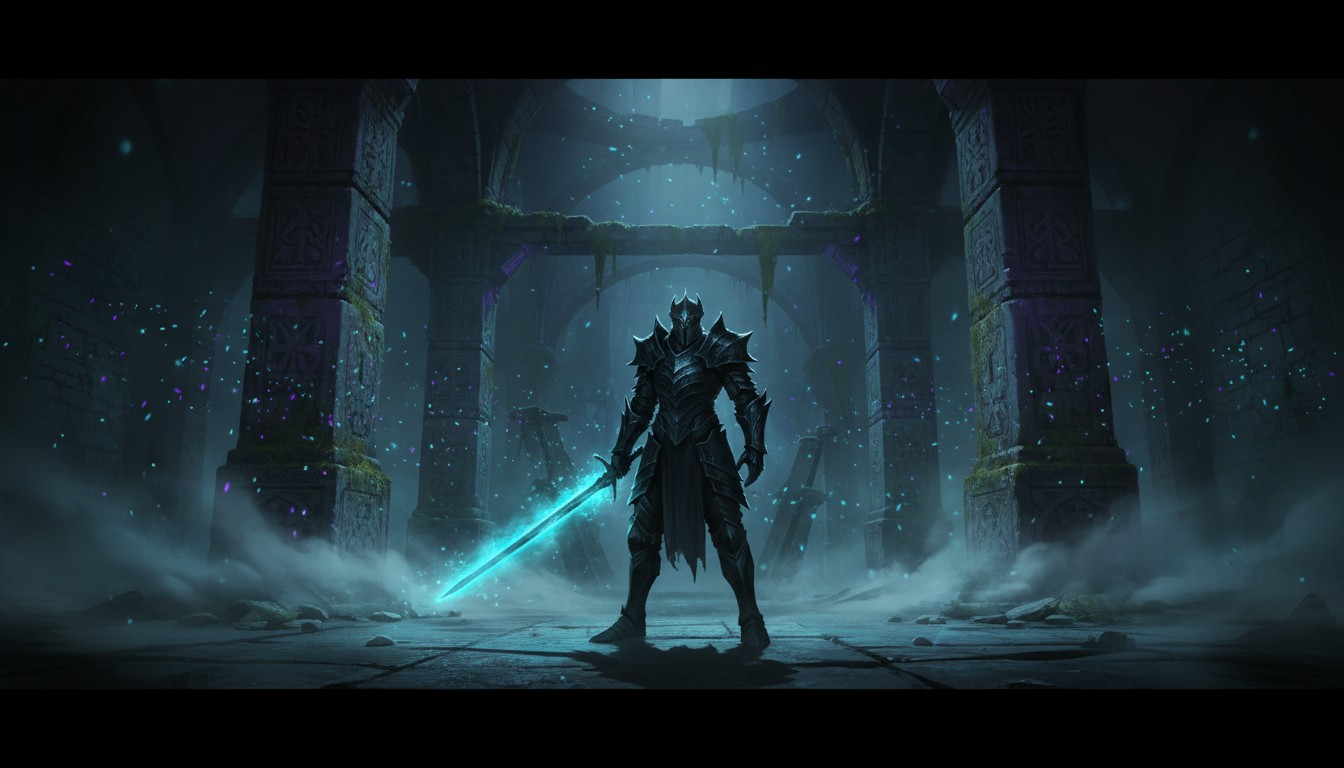
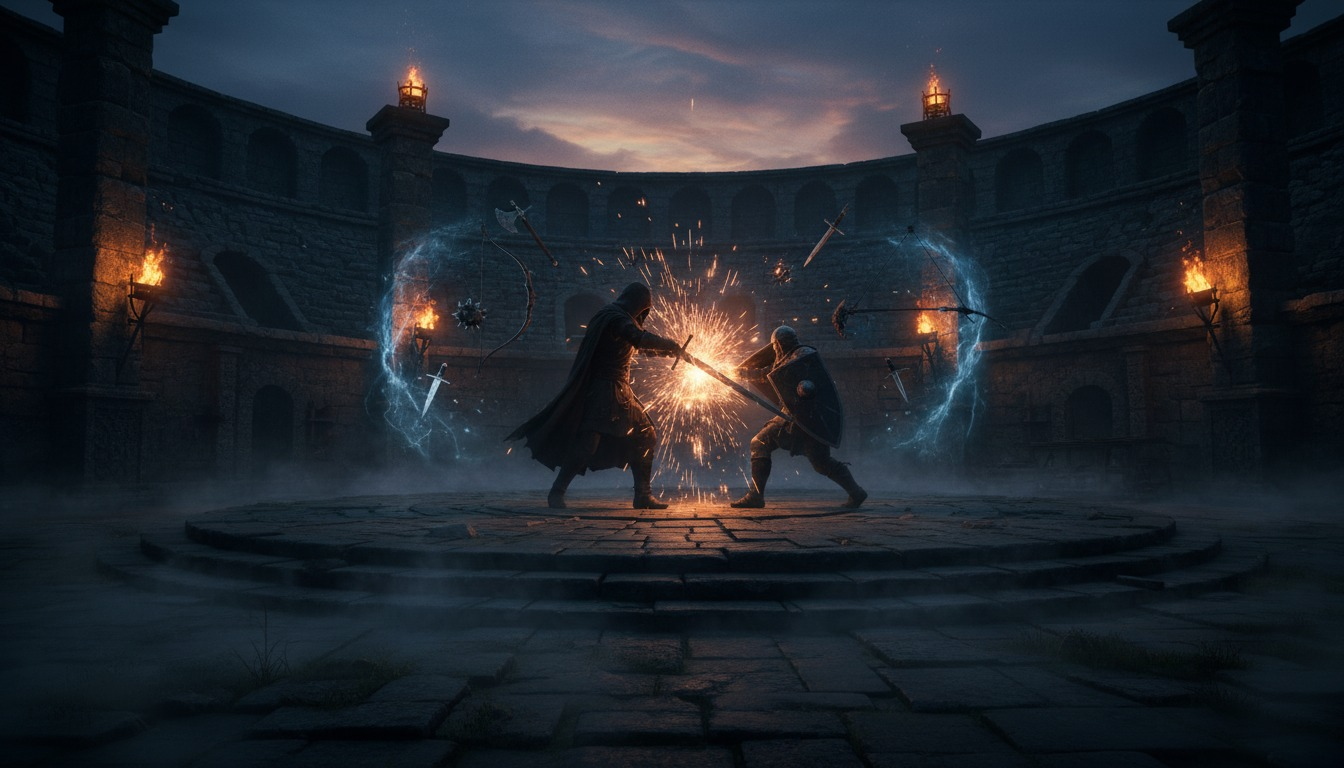
Publish blade-and-sorcery (games)

diff --git a/src/content/games/blade-and-sorcery.md b/src/content/games/blade-and-sorcery.md
@@ -1,74 +1,64 @@
 ---
 title: "Blade & Sorcery VR"
-description: "The physics-driven medieval combat sandbox that still sets the standard for VR melee — and the compromises you should know about before stepping into the arena."
-lastVerified: 2024-06-17
+description: "A physics-driven medieval combat sandbox where weapons have real weight and magic obeys your hands — though its Early Access scope is narrow."
+lastVerified: 2018-12-11
 featured: false
 routeType: Official Standalone VR Version
-platforms: ['PCVR', 'Quest', 'Pico']
-recommendation: Recommended
-playability: Fully Playable
+vrReleaseDate: 2018-12-11
+platforms: ['PCVR']
+recommendation: Recommended with Caveats
+playability: Mostly Playable
 setupBurden: Beginner Friendly
 inputStyle: Full Motion Controls
-comfort: Moderate Intensity
+comfort: Intense
 performance: Moderate Demand
 supportStatus: Active
 genres:
   - Action
+  - Simulation
   - Sandbox
-  - RPG
 technicalTags:
-  - Physics-Based Combat
-  - Native VR
-  - Mod Support
-  - Procedural Dungeons
-experienceTags:
+  - Physics-Based
   - Melee Combat
-  - Magic Systems
-  - Sandbox Freedom
-  - Progression Mode
-tier: A
-verdict: "The best VR melee combat available, backed by a deep sandbox and massive modding community. Play it on PCVR if you can; Nomad is impressive but visibly constrained."
+  - Magic System
+  - Moddable
+experienceTags:
+  - Medieval
+  - Arena Combat
+  - Sandbox
+  - Combat-Focused
+tier: B
+verdict: "The best VR melee combat available, trapped in a very small box. Worth it for the physics alone if you know what you're buying."
 heroImage: /images/games/blade-and-sorcery-vr-hero.jpg
-sources: "Research conducted via Steam store page, Meta Quest store page, UploadVR reviews and coverage, pressplaynews.net PCVR review, Road to VR development coverage, WarpFrog official announcements, YouTube VR gameplay footage (Beardo Benjo, Gamertag VR), and Reddit community reports from r/BladeAndSorcery. Assessment based on community experience and media coverage; no direct testing performed."
-vrReleaseDate: 2018-12-11
+sources: "Steam store page (WarpFrog), YouTube VR gameplay footage (Nathie, Gamertag VR, Beardo Benjo), Reddit community reports (r/BladeAndSorcery, r/Vive, r/oculus), Flat2VR Discord community knowledge. Assessment based on research compilation; no direct testing performed."
 ---
 
-The first time I landed a clean two-handed overhead swing in *Blade & Sorcery*, I felt the virtual weight of the blade pull my arms down. Not because of haptics — though the controller rumble helps — but because the game's physics engine actually models momentum, edge alignment, and impact force. The sword bit through the enemy's shoulder, the body crumpled with ragdoll physics that didn't look canned, and I stood there in my headset thinking: *okay, so this is what VR combat is supposed to feel like.*
+You swing a longsword at a raider's head and something unexpected happens: the blade catches on his shield, slides along the rim, and bites into his shoulder with the awkward, messy physics of real metal hitting real bone. In most VR games, that collision would have ghosted right through. In *Blade & Sorcery*, it stops. It bounces. It behaves like an object with mass, and that single difference rewrites what melee combat feels like in a headset.
 
-That was years ago, in Early Access. The game left Early Access in June 2024 with a full 1.0 release and a new progression mode called Crystal Hunt, and the core appeal hasn't changed. *Blade & Sorcery* is a medieval fantasy combat sandbox built from the ground up for VR. There is no flat version. There never will be. Every swing, every spell, every thrown dagger was designed around the fact that you're standing in a room with two motion controllers and a headset strapped to your face.
+WarpFrog's *Blade & Sorcery* arrived on Steam Early Access as a PCVR-native medieval combat sandbox, and its selling proposition is brutally simple: weapons have weight, edges cut where edges should cut, and the entire design flows from that foundation. There is no campaign here, no skill tree, no narrative justification for why you are standing in a stone courtyard surrounded by people who want you dead. You are here because the combat is the game, and for once, the combat justifies the admission price.
 
-## What You're Actually Getting
+## What the Combat Actually Feels Like
 
-At its heart, this is a physics playground with a combat bent. The sandbox mode drops you into an arena or dungeon with immediate access to every weapon, armor piece, and spell in the game. You spawn enemies, set the parameters, and fight until you're bored or dead. There's no scoreboard pushing you forward — the game trusts that the combat itself is the reward.
+What makes the moment-to-moment play compelling is the collision system. Swords, axes, daggers, and polearms all carry momentum that your arm must generate. Waggle a blade limply and it taps harmlessly against armor. Put your body behind a swing and it cleaves through flesh. Stab someone in the leg and they stumble. Crush a skull with a mace and the impact feels thuddy and correct, not pre-canned. The absence of pre-baked attack animations means every fight is a mess of improvised geometry: you might hook an enemy's helmet with a halberd, lose your grip when they yank the shaft, or accidentally lodge a thrown knife in a wooden beam two feet left of your target.
 
-Crystal Hunt, added at 1.0, gives structure to that sandbox. It's a proper progression mode with a skill tree, dungeon crawling, loot, and lore delivered through scattered notes and voiceovers. The narrative is thin — don't expect *Skyrim* — but the loop works. You descend into procedural dungeons, fight through rooms of enemies, gather gear, and spend skill points on abilities like telekinesis or fire conjuration. It gives new players a reason to learn the systems before diving into unrestricted sandbox chaos.
+This is the first commercial VR melee system that treats your weapons as physical objects rather than wands with hitboxes. It demands you respect length, angle, and follow-through. You cannot simply flail your controller and win. A spear kept at range is devastating; brought in close, it becomes a liability. A dagger requires you to get inside an enemy's guard. A greatsword needs space to build momentum. The game does not explain this in a tutorial — it teaches through the physics itself, and the learning curve is part of the satisfaction.
 
-The combat itself is the star. Weapons have heft. A claymore swings slower than a dagger and carries more knockback. Shields can be bashed. Arrows arc and drop. Magic comes in several disciplines — gravity, fire, lightning, life drain — and can be combined with melee in ways that feel improvisational rather than scripted. Grab an enemy with telekinesis, pull them into a sword thrust, then blast the corpse into their allies with a gravity push. The game doesn't award style points, but it gives you the tools to look cool anyway.
+The magic system layers on top of this physicality with surprising coherence. Telekinesis lets you pluck weapons from the ground or choke an opponent from across the room. Lightning chains between clustered enemies. Fire ignites cloth and spreads realistically. Each spell is gesture-activated and governed by the same physics logic as everything else, which means a telekinetically lifted crate has real inertia, and a lightning bolt can strike your own sword if you are careless. It feels less like casting from a hotbar and more like manipulating a dangerous toolset that happens to respond to hand movements.
 
-## PCVR vs. Nomad: The Real Divide
+## The Walls of the Sandbox
 
-If you have a gaming PC and a Quest or PCVR headset, buy the PCVR version. Full stop. The standalone *Blade & Sorcery: Nomad* port for Quest and Pico is genuinely impressive — it's one of the better PCVR-to-standalone conversions out there — but the compromises are real and they stack up.
+The structure, however, is where the Early Access label bites hardest. *Blade & Sorcery* offers a handful of arena maps and two primary modes: wave-based survival and a free-for-all sandbox where you spawn enemies at will. That is the full menu. There are no objectives, no persistent progression, no unlocks, no story beats to chase. You fight until you die, restart, and fight again. For some players, this is a feature — a pure, distilled combat loop with no filler. For others, it is a narrow package that runs out of new experiences within a few hours.
 
-On PCVR, you get the Citadel map, larger dungeons, more enemies on screen at once, better physics stability, and the full modding ecosystem. On Nomad, the Citadel is missing entirely. Dungeons are trimmed down. Enemy counts are lower to preserve performance. Distant geometry looks pixelated and blurry, especially on Quest 2. Physics can jitter under load — hands clip through objects, swords phase through enemies in ways that break the illusion. Nomad also had a rocky road with scripted mods; the capability exists now in a beta form, but many complex PCVR mods simply won't run on standalone hardware.
+Enemy variety is thin at launch, and while the AI is aggressive enough to keep you honest, it does not exhibit much tactical depth. They rush, they swing, they die. The sandbox tools help extend the lifespan — you can spawn ten enemies, give yourself only daggers, or turn off gravity and see what chaos unfolds — but the playground itself is small. The modding community is already picking up considerable slack, building new weapons, maps, and gameplay tweaks at a brisk pace. Still, buying a game on the promise of future community content is a gamble Early Access asks you to make explicitly, and the base offering is lean.
 
-That said, Nomad has one undeniable advantage: you can play it anywhere. No cable, no PC, no guardian boundary headaches from a link connection. For a game that's as physically active as this one — ducking, lunging, wide swings — standalone freedom matters. If you only own a Quest and no gaming PC, Nomad is absolutely worth the purchase. Just know you're getting the compressed version of an already niche experience.
+## Stability, Performance, and Comfort
 
-## Where the Magic Lives (and Dies)
+Performance and stability carry the usual Early Access caveats. On reasonable hardware the game maintains its framerate well enough for a smooth VR experience, though dense enemy clusters and heavy physics calculations can introduce hitches. Physics glitches occasionally launch bodies into orbit or cause weapons to vibrate themselves loose from your grip. None of it is frequent enough to ruin a session, but all of it reminds you that this is a work in progress.
 
-The modding scene is what keeps *Blade & Sorcery* alive long after the base content runs dry. The in-game mod manager and Nexus Mods host thousands of mods: new weapons, new maps, new enemies, total conversion packs that drop you into *Star Wars* or *Lord of the Rings* scenarios. The SDK is flexible enough that creators have built functioning multiplayer mods, expanded spell systems, and dynamic weapon degradation. If the base game is a sandbox, the modding community is the construction crew that keeps adding new rides.
-
-Without mods, the base experience gets repetitive. The AI is functional but not clever — enemies charge, they block occasionally, they die. After a dozen hours in sandbox mode, you've seen most of what the base systems have to offer. Crystal Hunt extends that runway, but it's still fundamentally the same combat loop in procedurally arranged rooms. The progression is light enough that it doesn't carry the game on its own.
-
-Performance is another caveat. Even on high-end hardware, maxing out settings can introduce hitches. The physics simulation is demanding, and the game doesn't always scale gracefully. On Nomad, expect occasional lag spikes when loading new dungeon rooms or when water physics are involved. It's playable, but not buttery.
-
-Comfort is moderate intensity. There's no smooth locomotion forced on you — you can teleport — but the combat itself is physical. Ducking under swings, stepping into lunges, and spinning to face flanking enemies will get your heart rate up. If you're prone to motion sickness, the good news is that the camera doesn't do anything aggressive. The bad news is that your body will be doing plenty.
+Comfort is worth a blunt warning. This is an intense, room-scale combat experience. You are ducking, sidestepping, and swinging your arms with force. There is no comfort option that will save you from the fact that you are physically exerting yourself in a fight. If you are prone to VR fatigue or have limited playspace, this will push against those boundaries quickly.
 
 ## Who Should Step Into the Arena
 
-*Blade & Sorcery* is for anyone who bought a VR headset and thought, *I want to actually swordfight, not waggle a controller.* It's for people who value physical interaction over narrative, who want to experiment with combat systems rather than be guided through them. It's not a traditional RPG and it's not a campaign-driven adventure. It's a toy box with the best melee physics in the medium.
+If you bought a VR headset because you wanted to feel like you were actually holding a sword, *Blade & Sorcery* is currently the closest thing to that fantasy working at a commercial level. It is a VR-only title — there is no flat version — and that native focus shows in how tightly the systems are built around motion controls and physical presence. If you need structure, progression, or a reason to fight beyond the pleasure of the fight itself, it is not ready for you yet, and it may never be. This is fundamentally a sandbox, not a campaign waiting to be finished.
 
-Skip it if you need a story to propel you forward, if you don't have the stomach for repetitive combat loops, or if you're buying the Nomad version expecting the full PCVR experience. The standalone port is good, but it's not the same game.
-
-If you have a PCVR setup and even a passing interest in melee combat, this belongs in your library. It's been the benchmark for VR physics interaction for years, and nothing else has convincingly taken the crown. The 1.0 release gave it just enough structure to justify the purchase for newcomers, and the modding community ensures that veterans never run out of sharp objects to swing.
-
-*Blade & Sorcery* isn't perfect. The AI is dull, the base content runs thin, and the Nomad version makes real sacrifices. But when that sword connects exactly where you aimed, with exactly the force you expected, there isn't another VR game that delivers that specific satisfaction. For that reason alone, it's essential.
+WarpFrog has built something rare here: a combat system so physically satisfying that it papers over an otherwise barebones package. In Early Access, that is enough to recommend it to enthusiasts and anyone who has been waiting for VR melee to stop feeling like a trick. Just know you are buying a playground, not a kingdom.